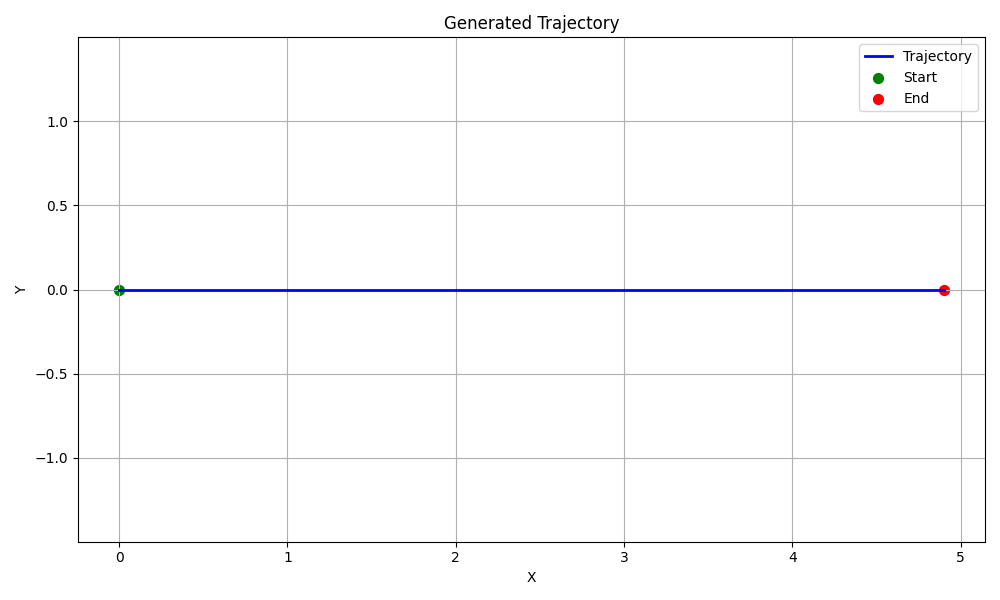
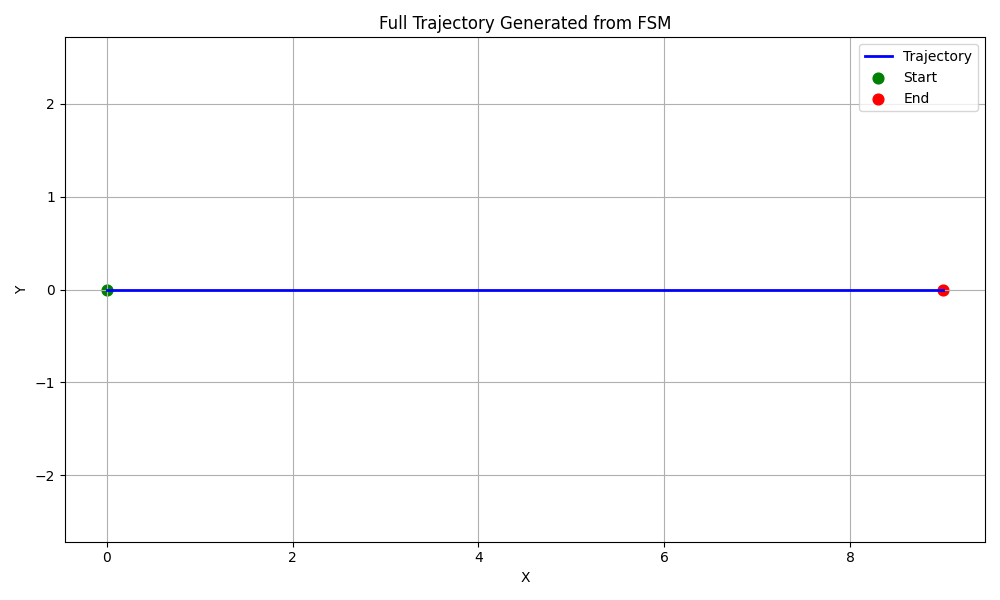
Completed Planning Moduel Base Code

diff --git a/planning/trajectory_selector.cpp b/planning/trajectory_selector.cpp
@@ -3,20 +3,25 @@
 #include <nlohmann/json.hpp>
 #include <fstream>
 #include <iostream>
+#include <sstream>
 
-int main(){
-    std::ifstream fsm_file("planning/fsm_log.csv");
+int main() {
+    std::ifstream fsm_file("../planning/fsm_log.csv");
+    if (!fsm_file.is_open()) {
+        std::cerr << "[ERROR] Failed to open planning/fsm_log.csv\n";
+        return 1;
+    }
+
     std::string line;
-    std::getline(fsm_file, line);
+    std::getline(fsm_file, line);  // Skip header
 
     TrajectoryGenerator generator;
-    Eigen::Vector2d pos(0.0,0.0);
+    Eigen::Vector2d pos(0.0, 0.0);
     double heading = 0.0;
 
     std::vector<TrajectoryPoint> full_trajectory;
 
-    while(std::getline(fsm_file, line))
-    {
+    while (std::getline(fsm_file, line)) {
         std::stringstream ss(line);
         std::string step, x_str, y_str, state;
         std::getline(ss, step, ',');
@@ -26,21 +31,29 @@ int main(){
 
         pos.x() = std::stod(x_str);
         pos.y() = std::stod(y_str);
-        
-        std::vector<TrajectoryPoint> traj;
 
-        if(state == "GO_STRAIGHT")
-        {
+        std::cout << "[DEBUG] Parsed step=" << step << ", x=" << x_str
+                  << ", y=" << y_str << ", state=" << state << "\n";
+
+        std::vector<TrajectoryPoint> traj;
+        if (state == "GO_STRAIGHT") {
             traj = generator.generateStraightPath(pos, heading, 1.0, 5);
-        }
-        else
-        {
+        } else {
             traj = generator.generateStopTrajectory(pos);
         }
 
+        std::cout << "[DEBUG] Generated " << traj.size()
+                  << " points for state: " << state << "\n";
+
         full_trajectory.insert(full_trajectory.end(), traj.begin(), traj.end());
     }
-    generator.saveToJson(full_trajectory, "planning/full_trajectory.json");
+
+    if (full_trajectory.empty()) {
+        std::cerr << "[WARNING] Attempting to write empty trajectory to JSON.\n";
+    }
+
+    generator.saveToJson(full_trajectory, "../planning/full_trajectory.json");
     std::cout << "[INFO] Combined trajectory saved to planning/full_trajectory.json\n";
+
     return 0;
 }

diff --git a/planning/trajectory_generator.cpp b/planning/trajectory_generator.cpp
@@ -2,6 +2,7 @@
 #include <nlohmann/json.hpp>
 #include <fstream>
 #include <cmath>
+#include <iostream>
 
 TrajectoryGenerator::TrajectoryGenerator() {}
 
@@ -25,12 +26,38 @@ std::vector<TrajectoryPoint> TrajectoryGenerator::generateStopTrajectory(const E
 }
 
 
-void TrajectoryGenerator::saveToJson(const std::vector<TrajectoryPoint>& trajectory, const std::string& filename){
-    nlohmann::json j;
-    for(const auto& pt : trajectory)
-    {
-         j.push_back({{"x", pt.x}, {"y", pt.y}, {"heading", pt.heading}, {"velocity", pt.velocity}});
-    }
+// void TrajectoryGenerator::saveToJson(const std::vector<TrajectoryPoint>& trajectory, const std::string& filename){
+//     nlohmann::json j;
+//     for(const auto& pt : trajectory)
+//     {
+//          j.push_back({{"x", pt.x}, {"y", pt.y}, {"heading", pt.heading}, {"velocity", pt.velocity}});
+//     }
+//     std::ofstream file(filename);
+//     file << j.dump(2);
+// }
+
+void TrajectoryGenerator::saveToJson(const std::vector<TrajectoryPoint>& trajectory, const std::string& filename) {
     std::ofstream file(filename);
-    file << j.dump(2);
+    if (!file.is_open()) {
+        std::cerr << "[ERROR] Could not open " << filename << " for writing.\n";
+        return;
+    }
+
+    if (trajectory.empty()) {
+        std::cerr << "[WARNING] Attempting to write empty trajectory to JSON.\n";
+    }
+
+    nlohmann::json j = nlohmann::json::array();
+
+    for (const auto& pt : trajectory) {
+        j.push_back({
+            {"x", pt.x},
+            {"y", pt.y},
+            {"heading", pt.heading},
+            {"velocity", pt.velocity}
+        });
+    }
+
+    file << j.dump(2);  // Pretty print
+    file.close();
 }

diff --git a/planning/full_trajectory_plotter.py b/planning/full_trajectory_plotter.py
@@ -1,0 +1,30 @@
+import json
+import matplotlib.pyplot as plt
+
+def plot_full_trajectory(json_path = "planning/full_trajectory.json"):
+    with open(json_path, "r") as f:
+        data = json.load(f)
+
+    x_vals = [pt["x"] for pt in data]
+    y_vals = [pt["y"] for pt in data]
+
+
+    plt.figure(figsize = (10,6))
+    plt.title("Full Trajectory Generated from FSM")
+    plt.xlabel("X")
+    plt.ylabel("Y")
+    plt.plot(x_vals, y_vals, color="blue", linewidth=2, label="Trajectory")
+
+
+    plt.scatter(x_vals[0], y_vals[0], color="green", s=60, label="Start")
+    plt.scatter(x_vals[-1], y_vals[-1], color="red", s=60, label="End")
+
+    plt.legend()
+    plt.grid(True)
+    plt.axis("equal")
+    plt.tight_layout()
+    plt.savefig("planning/trajectory_plot.png")
+    plt.show()
+
+if __name__ == "__main__":
+    plot_full_trajectory()
